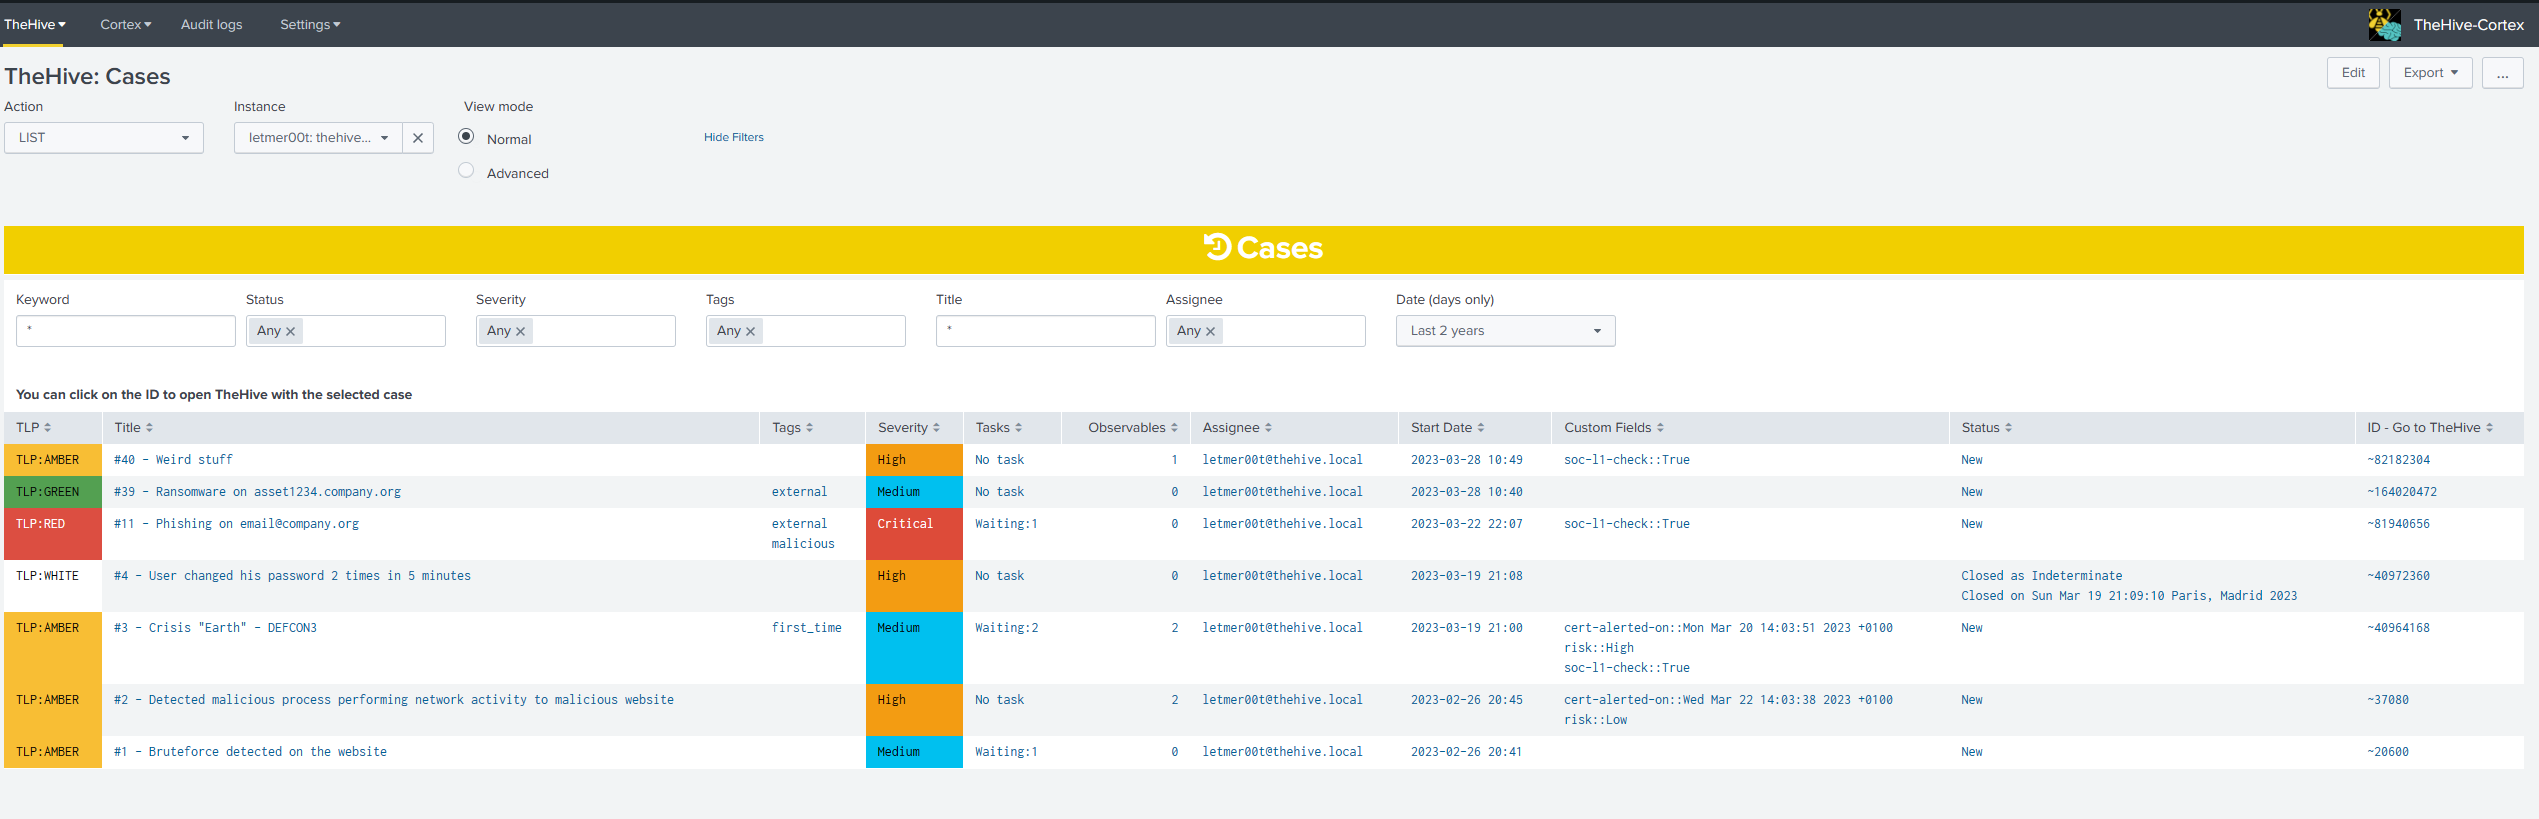
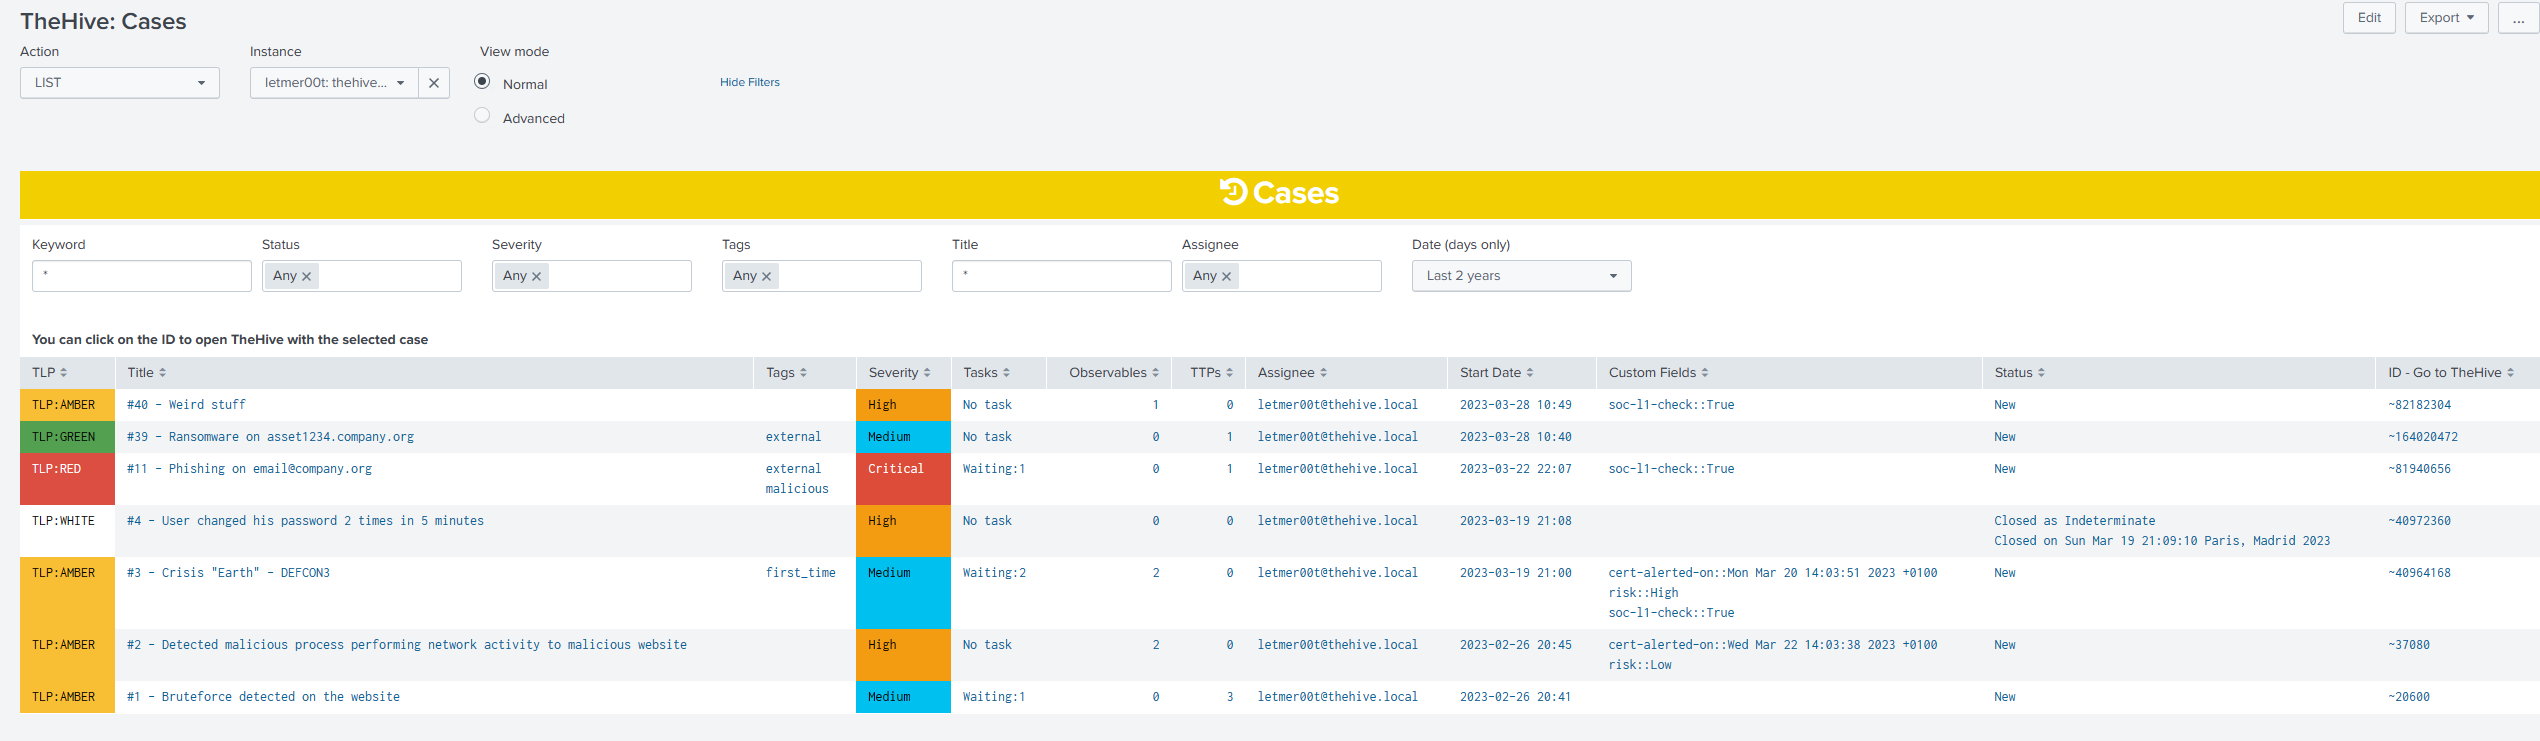
feat: update documentation following dashboard changes

diff --git a/README.md b/README.md
@@ -170,7 +170,8 @@ For each alert, you can see :
 - **TLP**: TLP of the alert
 - **Source**: the set source of the alert (default is "splunk")
 - **Severity**: Severity of the alert
-- **Observables**: number of observables in the alert
+- **TTPs**: TTPs of the case (just the number but you can retrieve the full detail in the logs)
+- **Observables**: Number of observables for the case (just the number but you can retrieve the full detail in the logs)
 - **Date**: date & time of the alert
 - **Custom Fields**: custom fields of the alert
 - **Tags**: Tags of the alert
@@ -226,7 +227,8 @@ For each job, you can see :
 - **Tags**: Tags of the case
 - **Severity**: Severity of the case
 - **Tasks**: Tasks of the case by status
-- **Observables**: Number of observables for the case
+- **TTPs**: TTPs of the case (just the number but you can retrieve the full detail in the logs)
+- **Observables**: Number of observables for the case (just the number but you can retrieve the full detail in the logs)
 - **Assignee**: Current assignee for the case
 - **Start Date**: Date and time for the start of the case
 - **Custom Fields**: Current custom fields for the case
